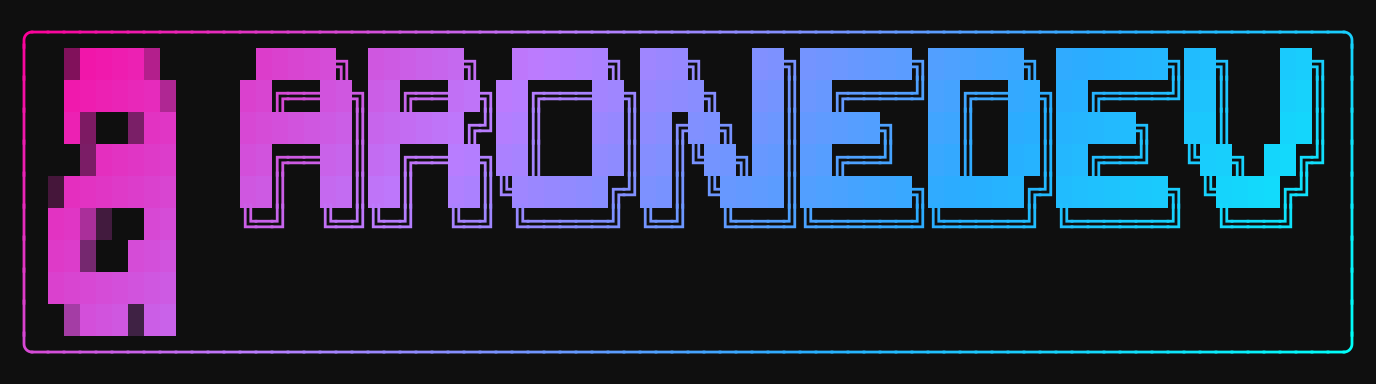
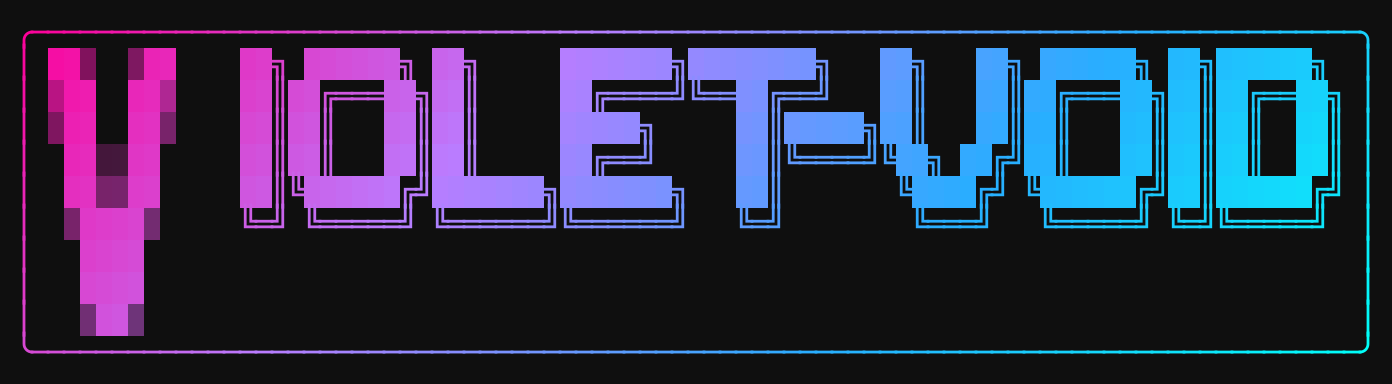
fix(profile): render violet-void in the FigFetti header

Changed region(s): [[0.1562, 0.125, 0.9688, 0.5938], [0.0312, 0.125, 0.125, 0.875]]

diff --git a/docs/figfetti-profile.md b/docs/figfetti-profile.md
@@ -9,7 +9,7 @@
 
 ## Gallery
 
-![Static aaronedev header](../assets/generated/profile-hero.png)
+![Static violet-void header](../assets/generated/profile-hero.png)
 
 The profile header plays its color wave once, then stays on the final banner. This PNG is the
 static alternative. The animation changes colors while keeping the text and frame in place.
@@ -34,11 +34,11 @@ From the repository root:
 ```bash
 figfetti --no-config --mix big-mono-12 ansi-shadow --split 1 --gap 3 --align middle \
   --box rounded --filter void --crop \
-  --export assets/generated/profile-hero.png aaronedev
+  --export assets/generated/profile-hero.png violet-void
 
 figfetti --no-config --mix big-mono-12 ansi-shadow --split 1 --gap 3 --align middle \
   --box rounded --filter void --crop --animate wave --fps 12 --duration 3s \
-  --animate-delay 800 --export assets/generated/profile-hero.gif aaronedev
+  --animate-delay 800 --export assets/generated/profile-hero.gif violet-void
 
 figfetti --no-config --mix big-mono-12 ansi-shadow --caps --gap 3 --align middle \
   --box double --filter void-mint --crop \

diff --git a/README.md b/README.md
@@ -17,7 +17,7 @@
 
 <p align="center">
   <a href="./docs/figfetti-profile.md">
-    <img src="./assets/generated/profile-hero.gif" alt="aaronedev in mixed Big Mono 12 and ANSI Shadow fonts with an animated Violet Void gradient" width="640" />
+    <img src="./assets/generated/profile-hero.gif" alt="violet-void in mixed Big Mono 12 and ANSI Shadow fonts with an animated Violet Void gradient" width="640" />
   </a>
 </p>
 
